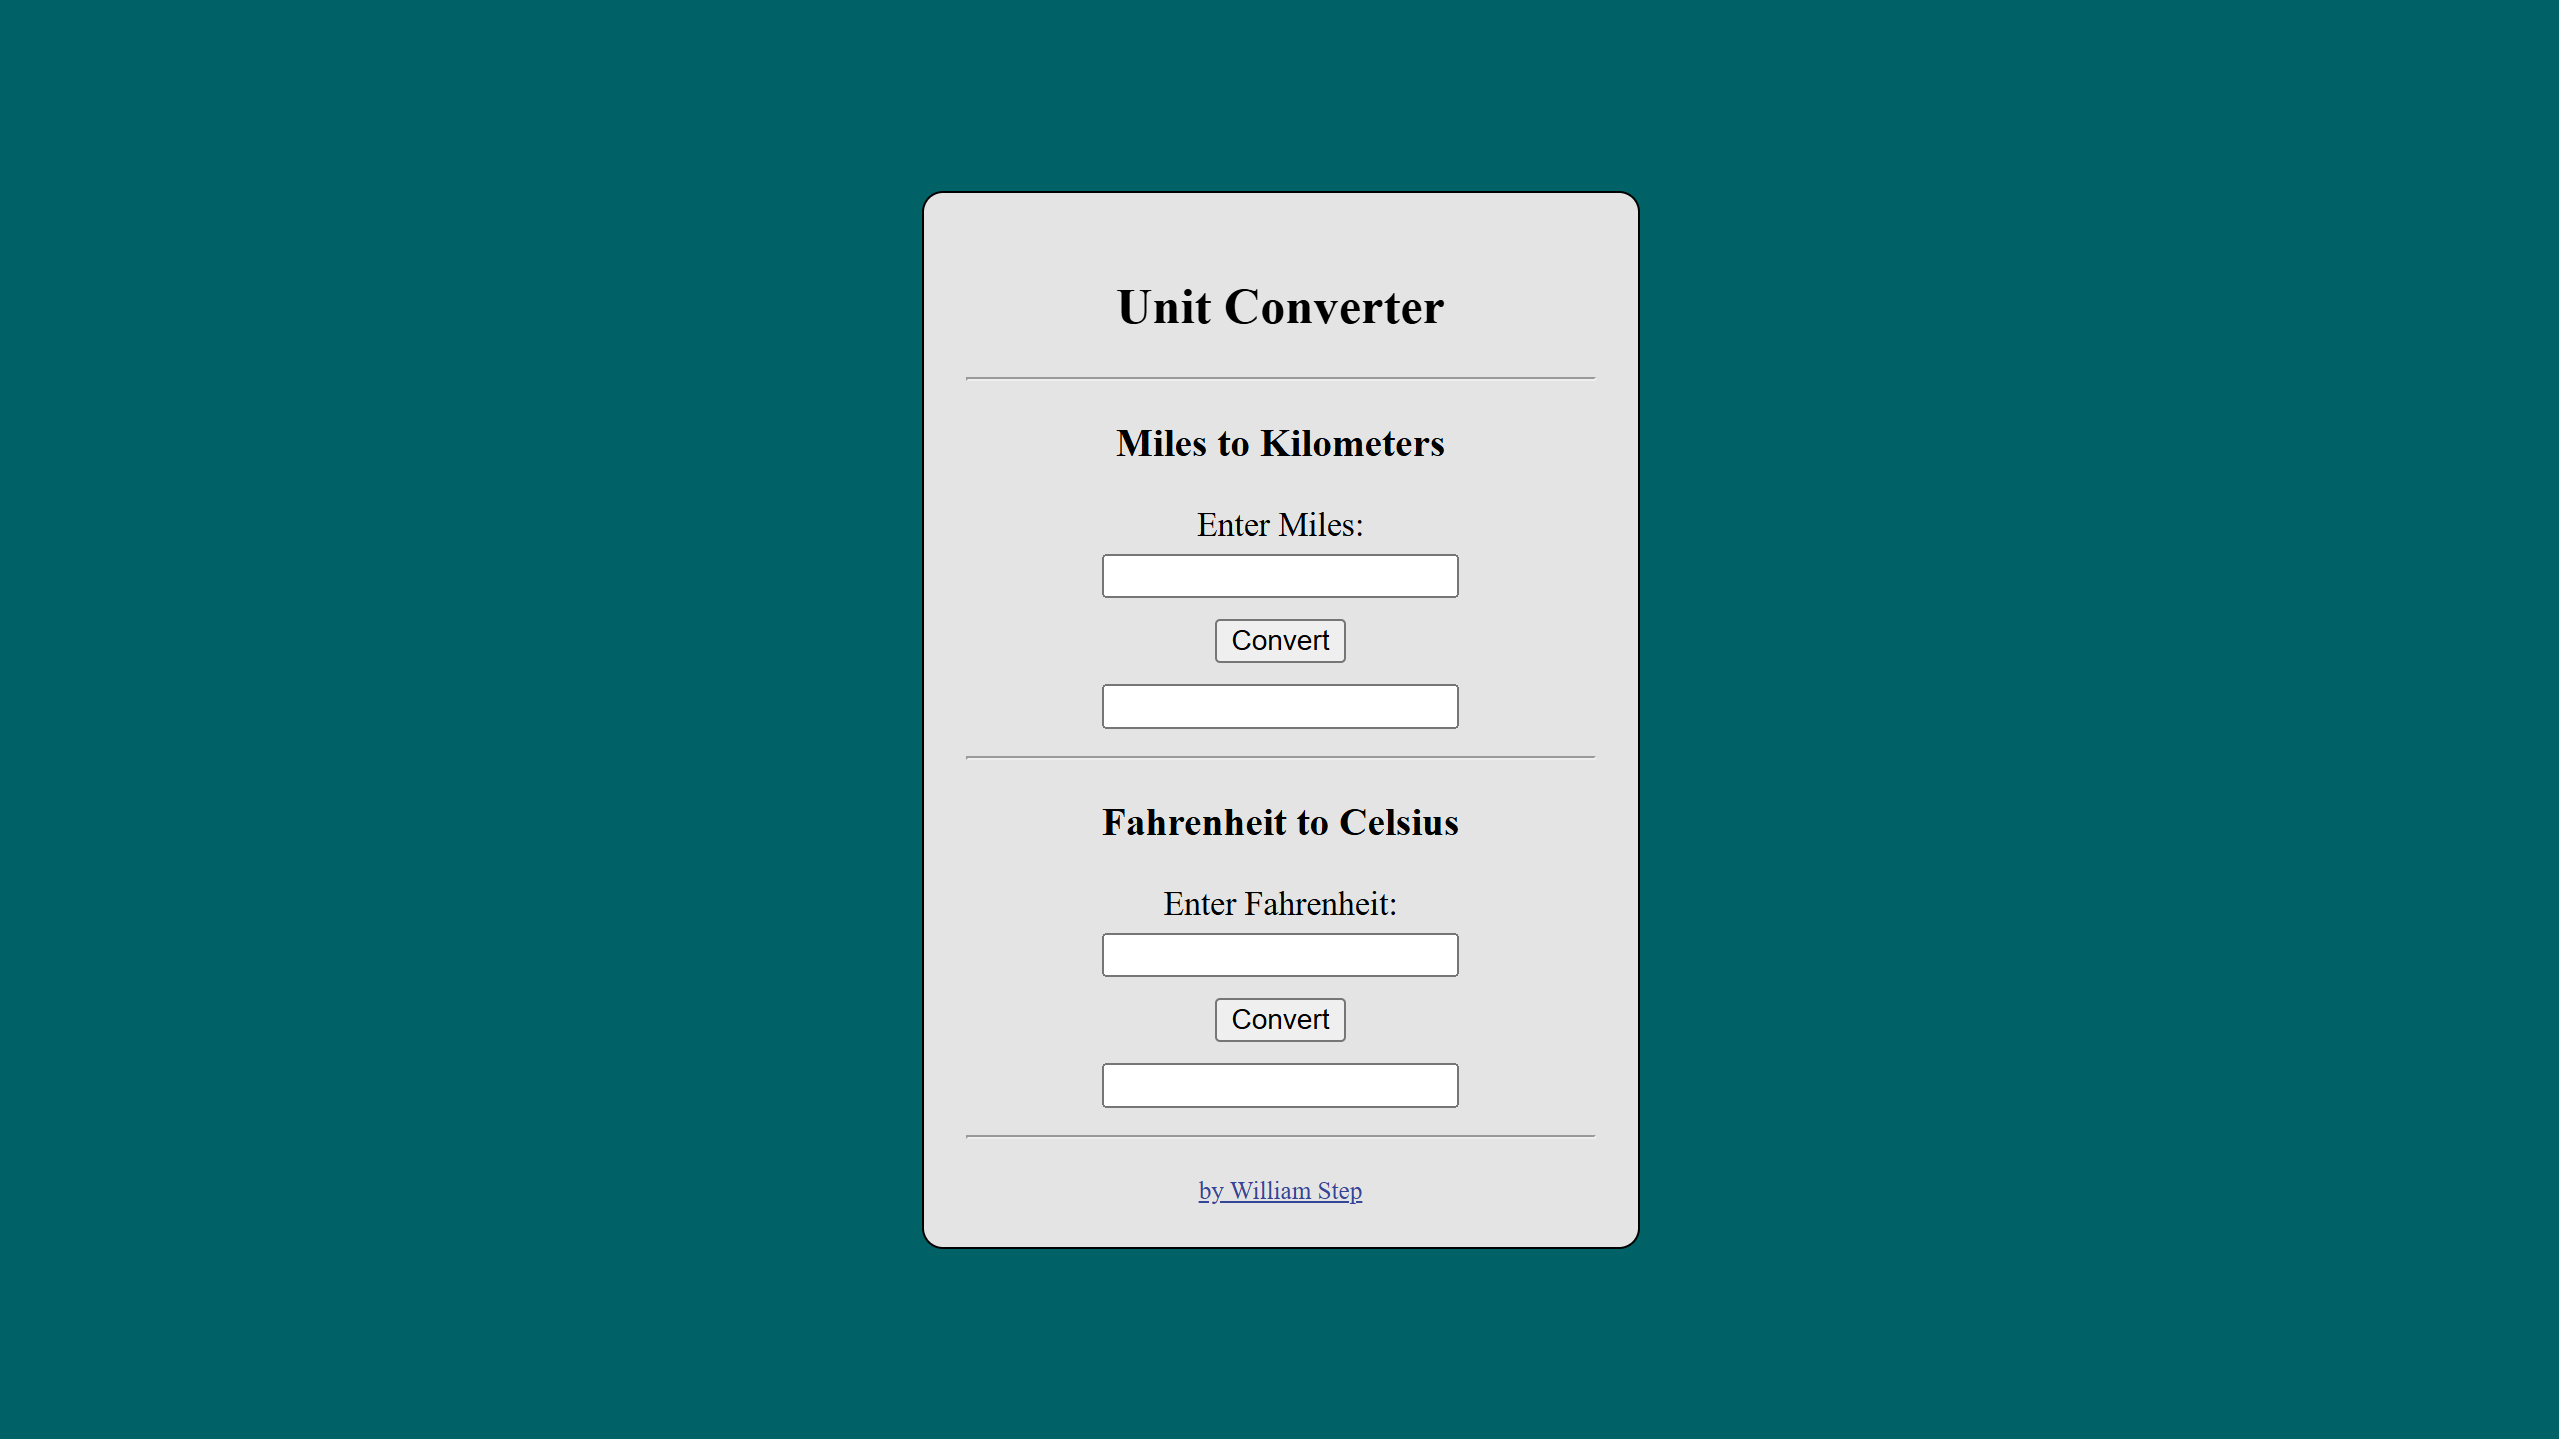
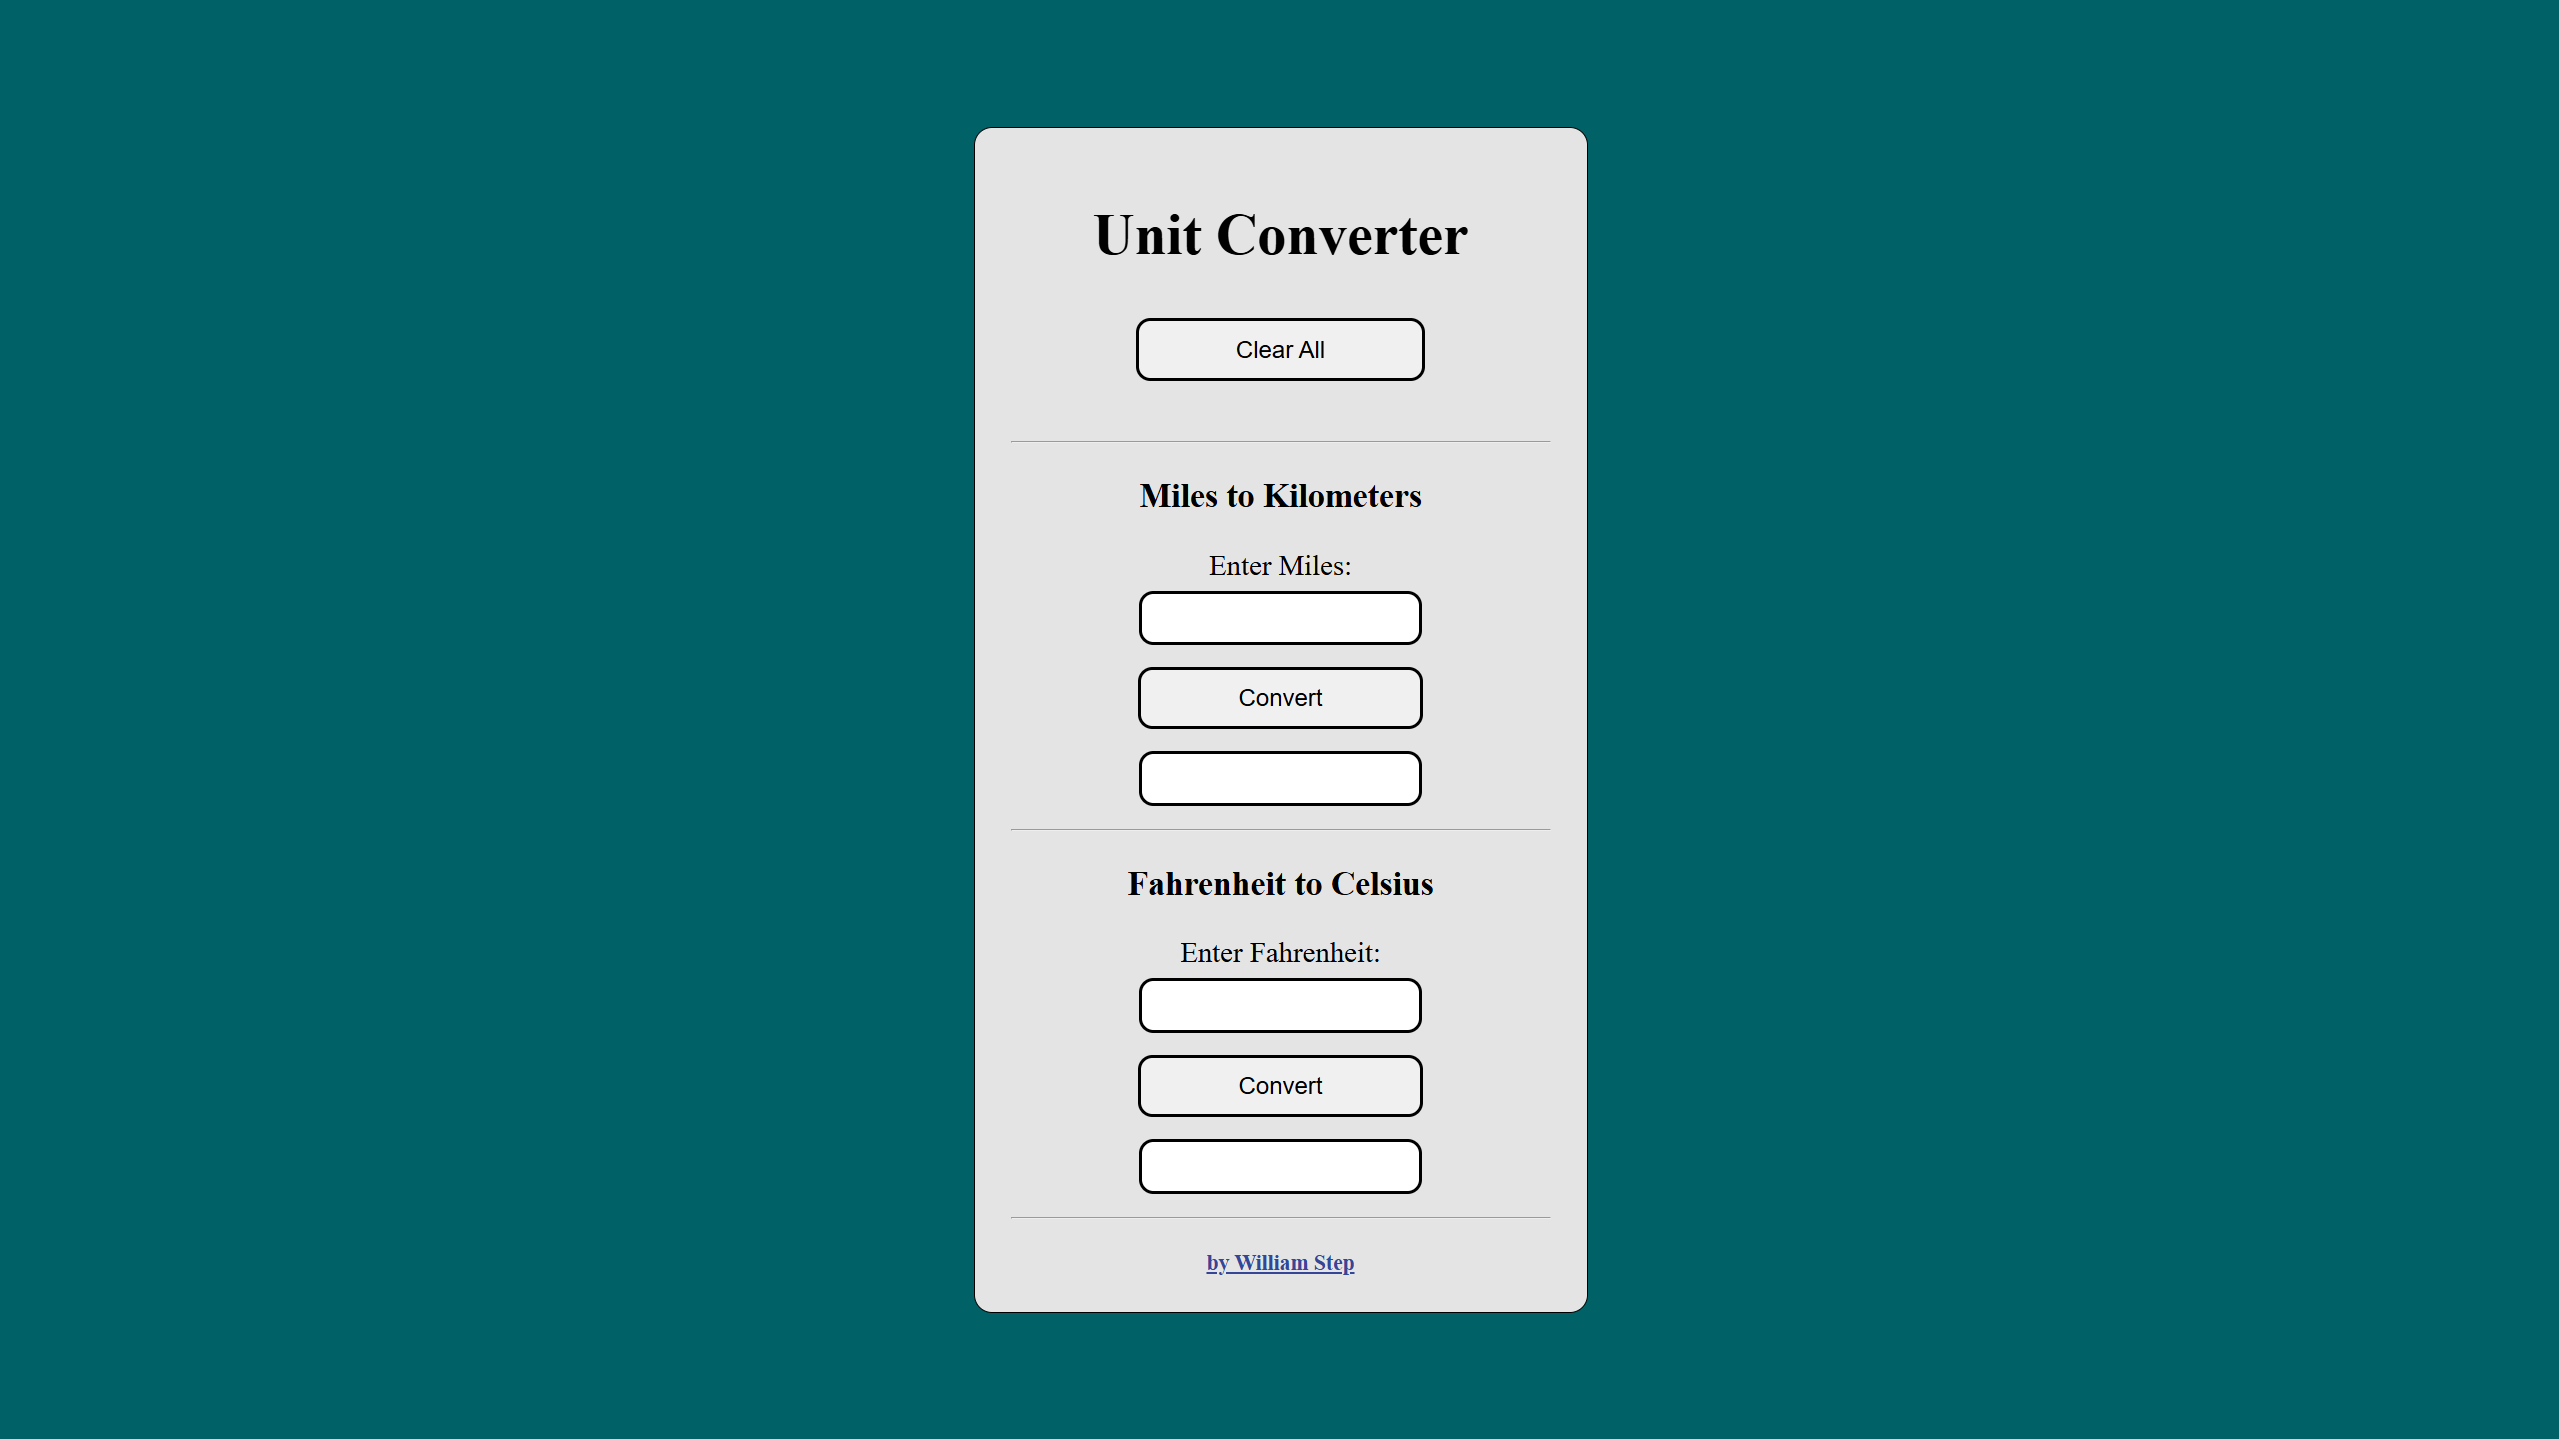
Replace cover image of the project

Changed region(s): [[0.3396, 0.0612, 0.6483, 0.9173], [0.4322, 0.3058, 0.5866, 0.581]]

diff --git a/README.md b/README.md
@@ -1,6 +1,6 @@
 # Unit Converter
 ### Click project live below:
-[![Unit Converter](https://github.com/will-s-205/will-s-205.github.io/blob/main/fcc-portfolio/img/2026-07-03%20unit%20converter%20cover.png)](https://unit-converter-p6pb.onrender.com/)
+[![Unit Converter](https://github.com/will-s-205/unit-converter/blob/main/wwwroot/images/2026-07-03%20unit%20converter%20cover.png)](https://unit-converter-p6pb.onrender.com/)
 Unit Converter is a simple web application built with C# and Minimal API that converts miles to kilometers and Fahrenheit to Celsius. The application uses an HTML interface with JavaScript to send user input to C# API endpoints, where the calculations are performed on the server. The results are returned as JSON and displayed on the webpage. This project demonstrates the basics of creating endpoints, handling HTTP requests, and connecting a frontend with a C# backend.
 ## Goal
 Build a simple web application that performs unit conversions by connecting an HTML frontend with a C# backend using Minimal APIs.